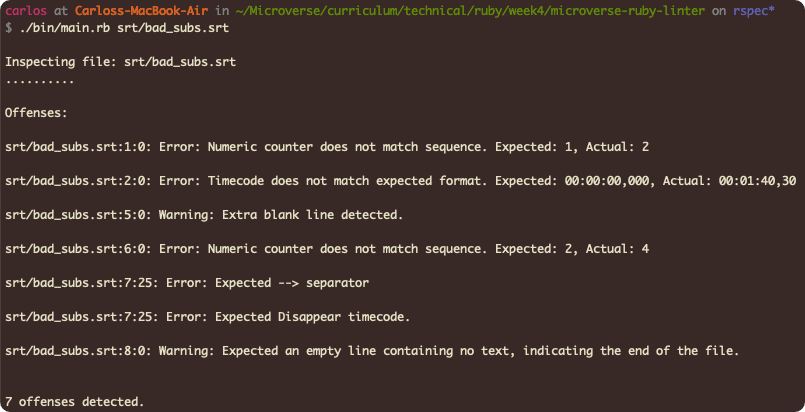
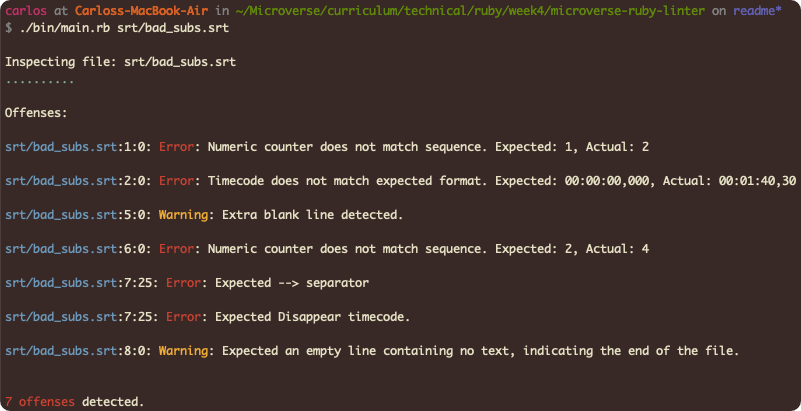
Update screenshot to reflect the colorize gem

diff --git a/README.md b/README.md
@@ -39,9 +39,13 @@ git clone https://github.com/chuckbuckethead/microverse-ruby-linter.git
 ```
 cd microverse-ruby-linter
 ```
-* Locate the `.srt` file you wish to validate and run the SRT Linter against it
+* Install gems
 ```
-./bin/main <path_to_srt_file>
+bundle install
+```
+* Locate the `.srt` file you wish to validate and run it against the SRT Linter
+```
+./bin/main.rb <path_to_srt_file>
 ```
 
 ## Good and Bad practices
